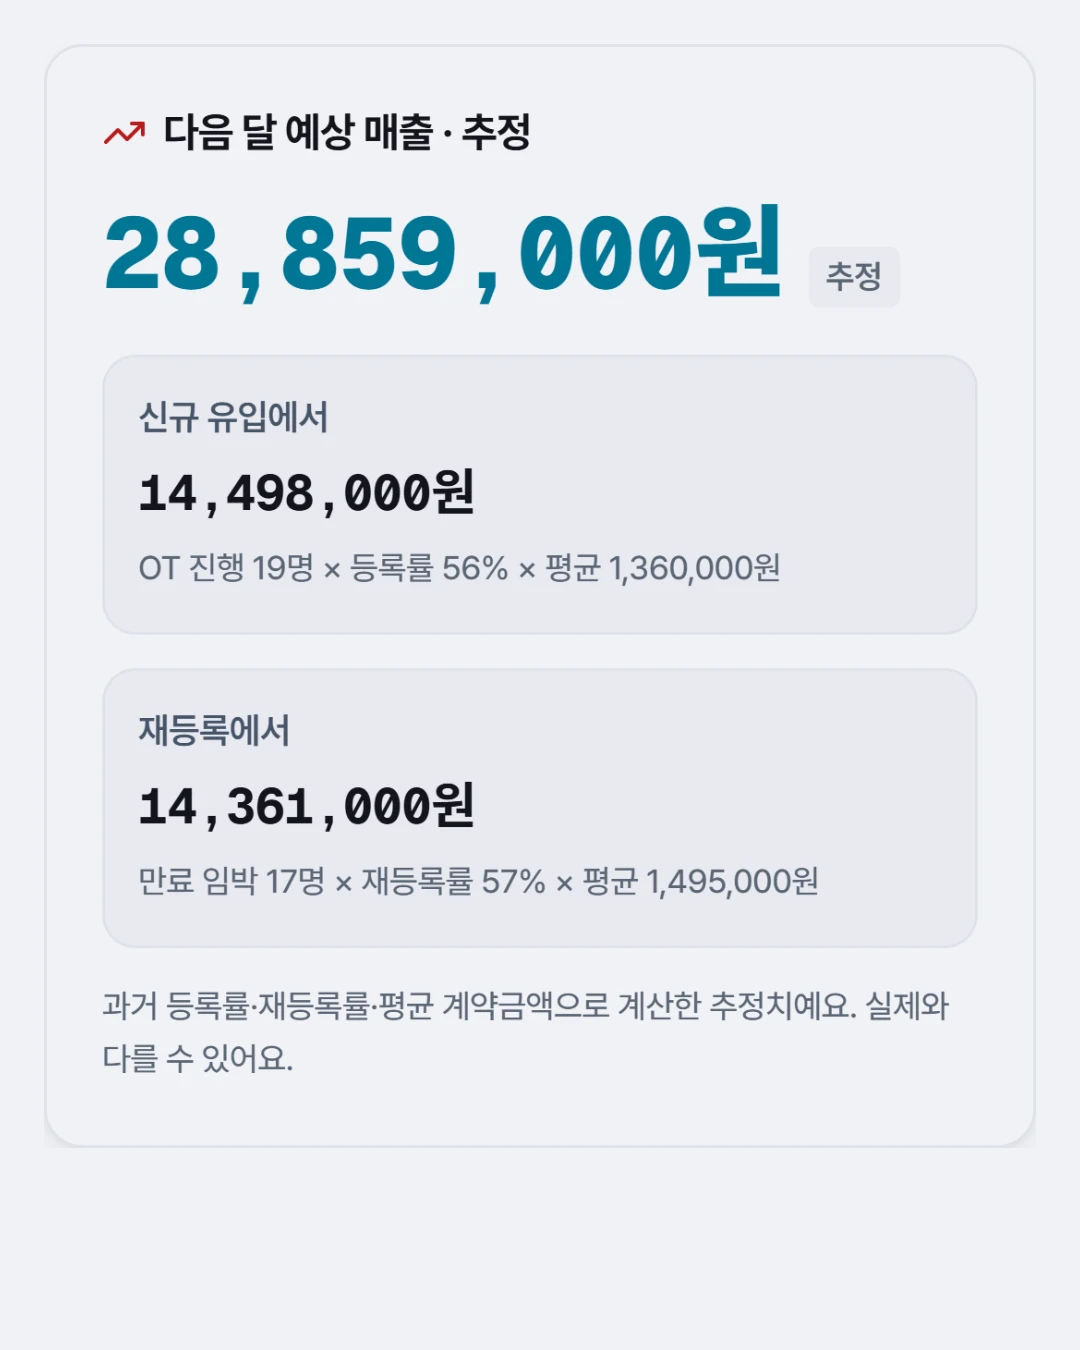
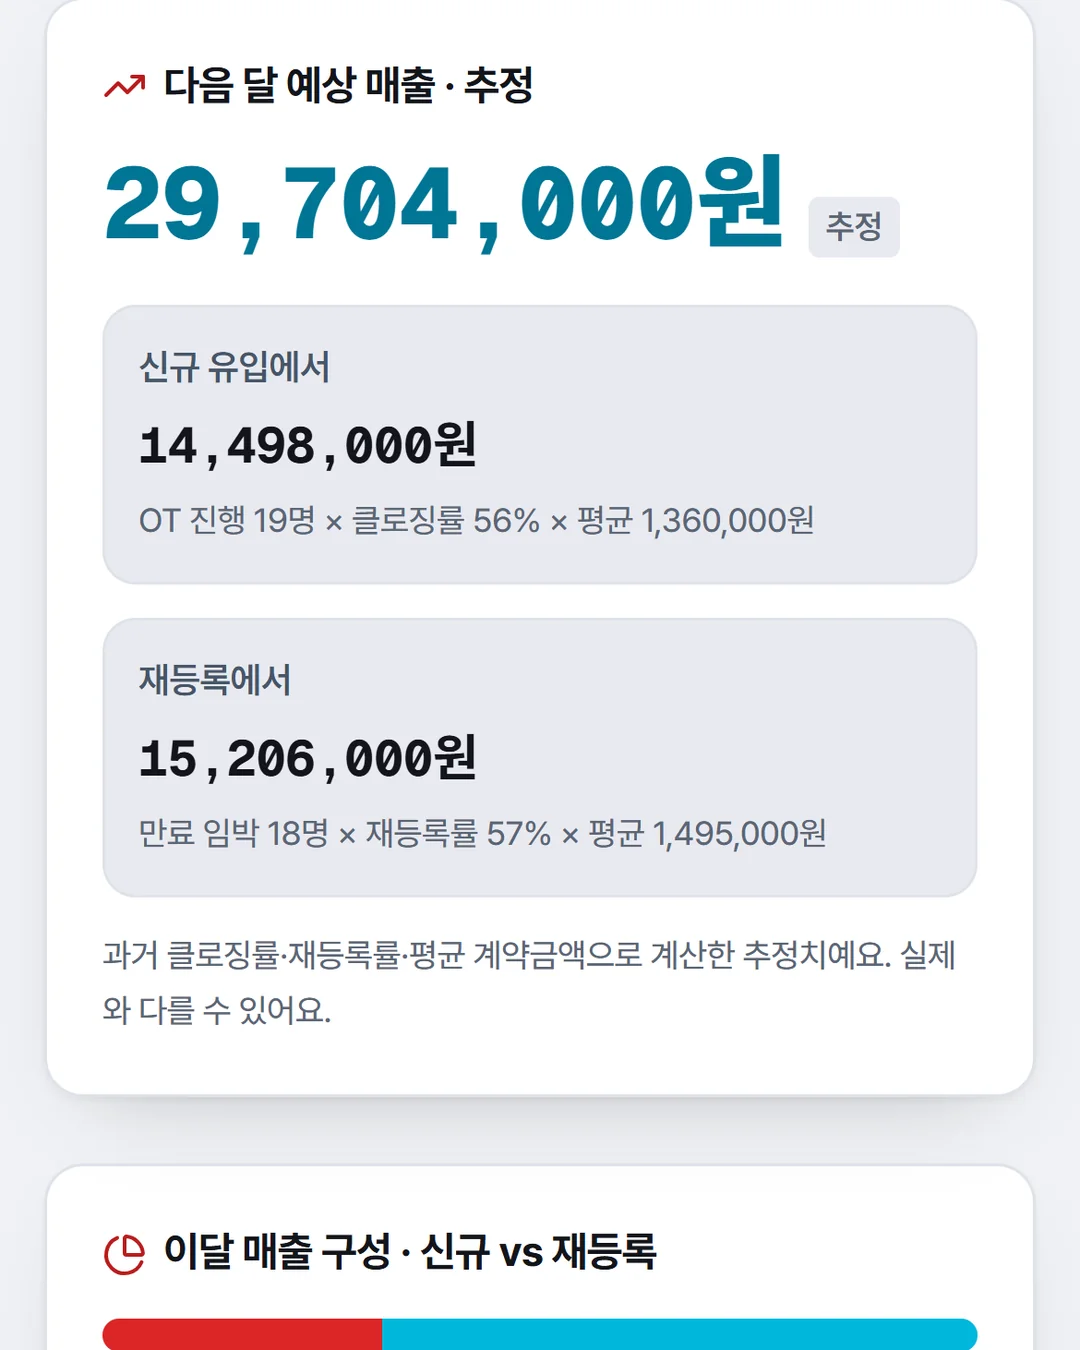
chore(lp): '클로징률' 화면으로 캡처 9장 다시 찍기 · 사진 설명 맞춤
C04 · C06b · C07 · C08b · C10 · C14(폰 4:5) · W06 · P06 · P09(PC 1600×1000) — 같은 구도 · 시연 데이터 그대로.

diff --git a/app/center/page.jsx b/app/center/page.jsx
@@ -52,7 +52,7 @@ const BUNDLES = [
     title: ["매달 1일,", "트레이너 면담 자료까지."],
     desc: "지난달 숫자를 전달과 비교하고, 트레이너별 잘한 점 · 보완할 점 · 이번 달 해 볼 것까지 앱이 써 줘요.",
     point: "보완할 점은 대표님만 봐요",
-    core: { img: "/lp/shots/2026-10/C04.webp", alt: "대표 월간 결산: AI 한 줄 총평과 9월 센터 숫자(매출 · 목표 달성 · OT · 등록률)",
+    core: { img: "/lp/shots/2026-10/C04.webp", alt: "대표 월간 결산: AI 한 줄 총평과 9월 센터 숫자(매출 · 목표 달성 · OT · 클로징률)",
       who: "앱이 만든 화면", caption: "매달 1일 아침 폰 알림과 함께 도착해요. 센터 숫자 한 장 뒤에 트레이너별 면담 카드가 이어져요." },
     items: [
       { name: "트레이너별 면담 카드", desc: "잘한 점 · 보완할 점 · 이번 달 해 볼 것", img: "/lp/shots/2026-10/C05.webp", alt: "월간 결산의 트레이너별 카드: 잘한 점 · 보완할 점(대표만) · 이번 달 해 볼 것" },
@@ -83,7 +83,7 @@ const BUNDLES = [
       who: "앱이 만든 화면", caption: "회원이 QR로 쓴 신청서가 여기 모여요. 원하는 시간 · 원하는 트레이너를 보고 버튼 한 번으로 배정해요." },
     items: [
       { name: "OT에서 등록까지", desc: "단계마다 몇 명이 남는지", img: "/lp/shots/2026-10/C08b.webp", alt: "대표 화면의 신규 OT에서 PT 등록까지 깔때기" },
-      { name: "달마다 클로징률", desc: "그 달에 들어온 회원 중 몇 %가 등록했는지", img: "/lp/shots/2026-10/C10.webp", alt: "달마다 등록률 막대 그래프" },
+      { name: "달마다 클로징률", desc: "그 달에 들어온 회원 중 몇 %가 등록했는지", img: "/lp/shots/2026-10/C10.webp", alt: "달마다 클로징률 막대 그래프" },
     ],
     href: "/try#qr",
   },
@@ -94,7 +94,7 @@ const BUNDLES = [
     desc: "매출 · 클로징률 · 재등록률 · 출석 · 이탈 위험으로 줄 세우고, 급여 방식대로 예상 급여까지 계산해요.",
     point: "오늘 놓친 것만 골라 '오늘 코칭할 것'으로",
     checks: ["매출 · 1차/2차 클로징률 · 재등록률 · 출석 · 이탈 위험으로 줄 세우기", "급여 방식대로 예상 급여를 계산하고 대표가 확정", "오늘 진행된 OT · 수업에서 놓친 것만 '오늘 코칭할 것'으로"],
-    core: { img: "/lp/shots/2026-10/C07.webp", alt: "트레이너 리더보드: 이달 매출 · 담당 회원 · 등록률 · 재등록률",
+    core: { img: "/lp/shots/2026-10/C07.webp", alt: "트레이너 리더보드: 이달 매출 · 담당 회원 · 클로징률 · 재등록률",
       who: "앱이 만든 화면", caption: "트레이너가 남긴 수업 · OT · 계약 기록으로 자동 집계돼요. 트레이너는 자기 숫자만 봐요." },
     items: [
       { name: "급여 확정", desc: "예상 급여 → 최종 금액 확정", img: "/lp/shots/2026-10/C14.webp", alt: "트레이너별 예상 급여와 최종 금액 확정" },
@@ -126,7 +126,7 @@ const WIDE = [
   { device: "pc", name: "매출", desc: "이달 매출 · 다음 달 예상 · 6개월 추이", img: "/lp/shots/2026-10/P04.webp", alt: "PC 매출: 이달 매출 현황 · 다음 달 예상 매출 · 매출 구성 · 6개월 추이" },
   { device: "pc", name: "정산", desc: "PT · FC · 기타 매출 − 지출 = 순이익", img: "/lp/shots/2026-10/P10.webp", alt: "PC 정산: 기간별 PT 매출 · FC 매출 · 기타 매출 · 지출 · 순이익" },
   { device: "pc", name: "트레이너", desc: "센터 요약 · 리더보드 한 표", img: "/lp/shots/2026-10/P05.webp", alt: "PC 트레이너: 센터 요약과 트레이너 리더보드 표" },
-  { device: "pc", name: "등록 · 이탈", desc: "깔때기 · 달마다 클로징률 · 재등록과 이탈", img: "/lp/shots/2026-10/P06.webp", alt: "PC 등록 · 이탈: 깔때기 · 달마다 등록률 · 재등록률 · 만료 임박 · 이탈 위험" },
+  { device: "pc", name: "등록 · 이탈", desc: "깔때기 · 달마다 클로징률 · 재등록과 이탈", img: "/lp/shots/2026-10/P06.webp", alt: "PC 등록 · 이탈: 깔때기 · 달마다 클로징률 · 재등록률 · 만료 임박 · 이탈 위험" },
   { device: "pc", name: "스케줄", desc: "완료율 · 노쇼율 · 요일 · 시간대 밀도", img: "/lp/shots/2026-10/P07.webp", alt: "PC 스케줄: 최근 90일 예약 · 완료율 · 노쇼율 · 트레이너별 진행 수업 · 예약 밀도" },
   { device: "tablet", name: "대표 홈", desc: "오늘 챙길 것 · 이달 매출 · 등록과 이탈", img: "/lp/shots/2026-10/P08.webp", alt: "태블릿 대표 홈: 배정 대기 · 오늘 챙길 것 · 이달 매출 · 등록 · 이탈 · 순이익" },
 ];

diff --git a/app/lp/page.jsx b/app/lp/page.jsx
@@ -178,7 +178,7 @@ const WIDE = [
   { device: "pc", name: "회원 관리", desc: "회원 목록 · 회원 정보 · 지난 수업을 한 화면에", img: "/lp/shots/2026-10/W02.webp", alt: "PC 회원 화면: 왼쪽 회원 목록, 가운데 PT 대시보드, 오른쪽 지난 수업" },
   { device: "pc", name: "OT 대본", desc: "회원 목록 옆에 대본을 펼쳐 놓고", img: "/lp/shots/2026-10/W03.webp", alt: "PC OT 대본: 30초 요약 · 입장 첫마디 · 오늘 운동 4개" },
   { device: "pc", name: "PC 첫 화면", desc: "오늘 일정 · 챙길 회원 · 회원 소식", img: "/lp/shots/2026-10/P01.webp", alt: "PC 넓은 홈: 오늘 수업 · 오늘 일정 · 챙길 회원 · 회원 쪽 소식 · 오운완 랭킹" },
-  { device: "pc", name: "내 실적", desc: "성적표 · 예상 급여 · 매출 · 클로징률", img: "/lp/shots/2026-10/W06.webp", alt: "PC 내 실적: 지난달 성적표 · 이달 예상 급여 · 이달 매출과 목표 · 등록률 · 수업 수" },
+  { device: "pc", name: "내 실적", desc: "성적표 · 예상 급여 · 매출 · 클로징률", img: "/lp/shots/2026-10/W06.webp", alt: "PC 내 실적: 지난달 성적표 · 이달 예상 급여 · 이달 매출과 목표 · 클로징률 · 수업 수" },
   { device: "tablet", name: "주간 스케줄", desc: "스케줄과 오늘 할 일을 나란히", img: "/lp/shots/2026-10/P02.webp", alt: "태블릿 주간 스케줄과 오늘 할 일(이탈 위험 · 새 OT 회원 · 수업 요청)" },
   { device: "tablet", name: "재등록 상담 대본", desc: "회원 목록 옆에 요약과 할 말", img: "/lp/shots/2026-10/W04.webp", alt: "태블릿 재등록 상담 대본: 30초 요약과 수업 순서별 대사" },
   { device: "tablet", name: "세일즈북 발표", desc: "회원 앞에 태블릿을 놓고 한 장씩", img: "/lp/shots/2026-10/W05.webp", alt: "태블릿 세일즈북 발표: 숫자로 확인된 변화 장" },
